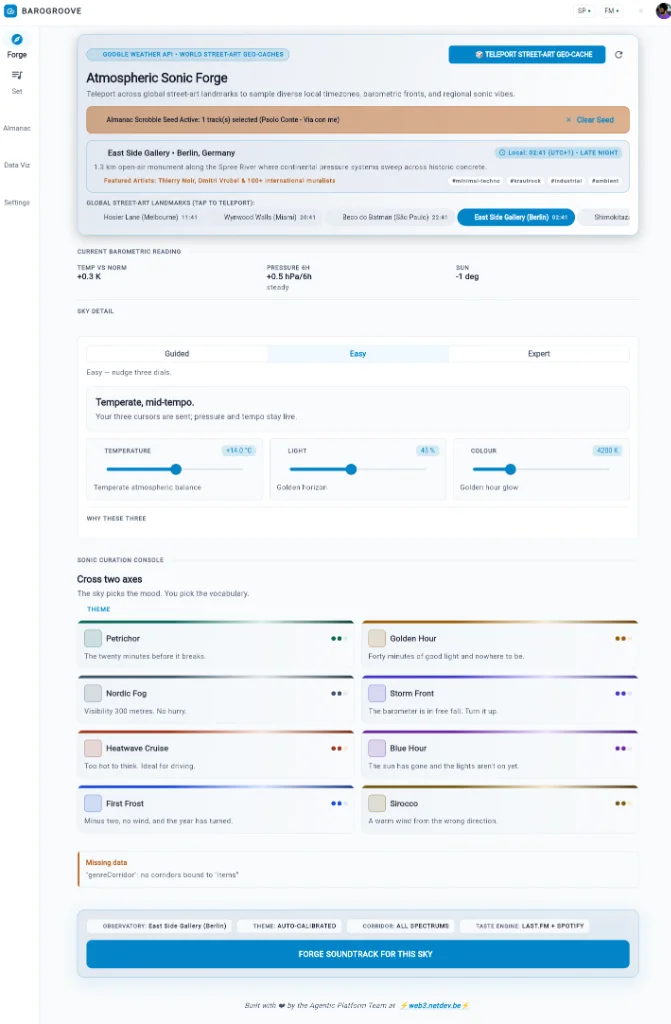
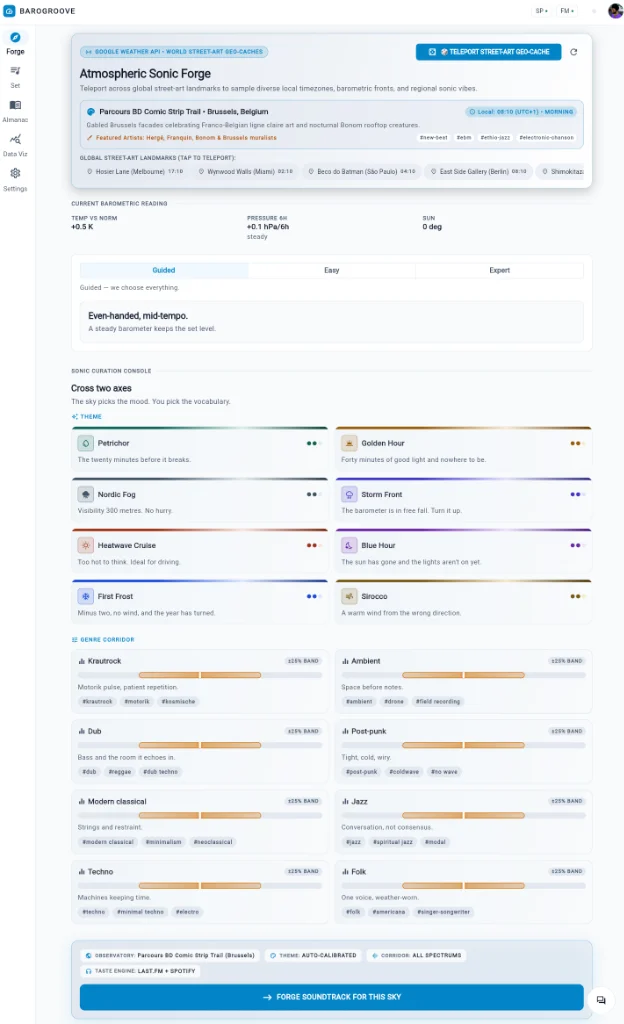
chore(blog): update Barogroove title and replace screenshots with updated UI captures

diff --git a/_posts/2026-09-14-barogroove-barometer-daylist-ai-lastfm.md b/_posts/2026-09-14-barogroove-barometer-daylist-ai-lastfm.md
@@ -1,6 +1,6 @@
 ---
 layout: post
-title: "Barogroove: When Barometric Pressure Meets 160,000 Last.fm Scrobbles"
+title: "Barogroove: When Barometric Pressure Meets years of Scrobbles"
 subtitle: "Weekend tinkering between espresso pots and rainy Brussels skies: building an atmospheric AI Daylist forge with Vertex AI Gemini 2.5 Flash, BigQuery, and street-art geo-caches."
 date: 2026-09-14
 cover-img: /assets/img/posts/2026-09-14-barogroove-hero.webp
@@ -14,7 +14,7 @@ Some weekends simply hit every single note.
 
 On Saturday, I stood pitchside at **Royal White Star HC** cheering on my son's field hockey team as they battled through the wet turf to a **4-2 victory**. On Sunday, it was my turn to lace up the shoes away at **Mechelen HC**—where my own team ground out a tight **1-2 win**. Two matches, two victories, sore calves, muddy shinguards, and that unbeatable post-game clubhouse buzz.
 
-And in the quiet windows between Saturday's final whistle, Sunday's warm-up, and a bottomless moka pot of dark roast coffee? I finally sat down and shipped a fun weekend tinkering experiment: **Barogroove** (<a href="https://bg.netdev.be" target="_blank" rel="noopener">bg.netdev.be</a>) — a barometer-induced AI Daylist maker seeded by twenty years of Last.fm scrobbles. The Python source code is up on GitHub at <a href="https://github.com/jpaquay/myshippedpy" target="_blank" rel="noopener" style="display: inline-flex; align-items: center; gap: 5px; font-weight: 600;"><svg width="15" height="15" viewBox="0 0 16 16" fill="currentColor" style="vertical-align: text-bottom;"><path fill-rule="evenodd" d="M8 0C3.58 0 0 3.58 0 8c0 3.54 2.29 6.53 5.47 7.59.4.07.55-.17.55-.38 0-.19-.01-.82-.01-1.49-2.01.37-2.53-.49-2.69-.94-.09-.23-.48-.94-.82-1.13-.28-.15-.68-.52-.01-.53.63-.01 1.08.58 1.23.82.72 1.21 1.87.87 2.33.66.07-.52.28-.87.51-1.07-1.78-.2-3.64-.89-3.64-3.95 0-.87.31-1.59.82-2.15-.08-.2-.36-1.02.08-2.12 0 0 .67-.21 2.2.82.64-.18 1.32-.27 2-.27.68 0 1.36.09 2 .27 1.53-1.04 2.2-.82 2.2-.82.44 1.1.16 1.92.08 2.12.51.56.82 1.27.82 2.15 0 3.07-1.87 3.75-3.65 3.95.29.25.54.73.54 1.48 0 1.07-.01 1.93-.01 2.2 0 .21.15.46.55.38A8.013 8.013 0 0016 8c0-4.42-3.58-8-8-8z"/></svg>jpaquay/myshippedpy</a>.
+And in the quiet windows between Saturday's final whistle, Sunday's warm-up, and a bottomless moka pot of dark roast coffee? I finally sat down and shipped a fun weekend tinkering experiment: **Barogroove** (<a href="https://bg.netdev.be" target="_blank" rel="noopener">bg.netdev.be</a>) — a barometer-induced AI Daylist maker seeded by years of Last.fm scrobbles. The Python source code is up on GitHub at <a href="https://github.com/jpaquay/myshippedpy" target="_blank" rel="noopener" style="display: inline-flex; align-items: center; gap: 5px; font-weight: 600;"><svg width="15" height="15" viewBox="0 0 16 16" fill="currentColor" style="vertical-align: text-bottom;"><path fill-rule="evenodd" d="M8 0C3.58 0 0 3.58 0 8c0 3.54 2.29 6.53 5.47 7.59.4.07.55-.17.55-.38 0-.19-.01-.82-.01-1.49-2.01.37-2.53-.49-2.69-.94-.09-.23-.48-.94-.82-1.13-.28-.15-.68-.52-.01-.53.63-.01 1.08.58 1.23.82.72 1.21 1.87.87 2.33.66.07-.52.28-.87.51-1.07-1.78-.2-3.64-.89-3.64-3.95 0-.87.31-1.59.82-2.15-.08-.2-.36-1.02.08-2.12 0 0 .67-.21 2.2.82.64-.18 1.32-.27 2-.27.68 0 1.36.09 2 .27 1.53-1.04 2.2-.82 2.2-.82.44 1.1.16 1.92.08 2.12.51.56.82 1.27.82 2.15 0 3.07-1.87 3.75-3.65 3.95.29.25.54.73.54 1.48 0 1.07-.01 1.93-.01 2.2 0 .21.15.46.55.38A8.013 8.013 0 0016 8c0-4.42-3.58-8-8-8z"/></svg>jpaquay/myshippedpy</a>.
 
 ---
 
@@ -22,64 +22,62 @@ And in the quiet windows between Saturday's final whistle, Sunday's warm-up, and
 
 If you live in Belgium, you learn early on that human mood is governed by two things: the quality of the coffee in your hand and the **barometric pressure (`hPa`)** outside your window.
 
-Streaming platforms have tried to crack dynamic playlists for years. Spotify's *Daylist* is clever, but its time-of-day heuristics (*"tuesday afternoon goblin core indie"*) miss the meteorological reality of the sky. A crisp, high-pressure `1028 hPa` winter morning calls for a completely different acoustic geometry than a humid `-5.4 hPa/6h` falling barometer right before a late-summer thunderstorm breaks over Brussels.
+Streaming platforms have tried to crack dynamic playlists for years. Spotify's *Daylist* is clever, but its time-of-day heuristics (*"tuesday afternoon goblin core indie"*) miss the meteorological reality of the sky. A crisp, high-pressure `1028 hPa` winter morning calls for a completely different acoustic geometry than a falling barometer right before a late-summer storm front rolls across Brussels.
 
-More importantly, generic AI music tools suffer from **amnesia**: they hallucinate recommendations from a generic global average instead of respecting your actual lifelong musical DNA. I didn't want a chatbot guessing what "rainy music" sounds like; I wanted an engine seeded directly by **my own 160,717 Last.fm scrobbles** logged since the mid-2000s.
+More importantly, generic AI music tools suffer from **amnesia**: they hallucinate recommendations from a generic global average instead of respecting your actual lifelong musical DNA. I didn't want a chatbot guessing what "rainy music" sounds like; I wanted an engine seeded directly by **my own 160,717 Last.fm scrobbles** logged between 2012 and 2026.
 
 ---
 
-## 2. The Atmospheric Sonic Forge: Street-Art Geo-Caches & Paolo Conte Seeds
+## 2. The Atmospheric Sonic Forge: Street-Art Geo-Caches & Genre Corridors
 
-![Barogroove Atmospheric Sonic Forge UI showing street-art geo-caches, barometric readings, and Paolo Conte scrobble seed](/assets/img/posts/2026-09-14-barogroove-01-sonic-forge.webp)
+![Barogroove Atmospheric Sonic Forge UI showing Parcours BD Brussels, weather themes, and Genre Corridor sliders](/assets/img/posts/2026-09-14-barogroove-01-sonic-forge.webp)
 
 When you open the app, you don't pick a generic genre. You step into the **Atmospheric Sonic Forge**:
 
 1. **World Street-Art Geo-Caches (Tap to Teleport)**: Instead of sterile city codes, Barogroove anchors its live weather telemetry (`Google Weather API`) to iconic global street-art corridors. With one click, you can teleport your barometer between:
-   - 🎨 **Parcours BD Comic Strip Trail (Brussels)** — *Home turf*
-   - 🧱 **East Side Gallery (Berlin)** — *1.3 km open-air monument along the Spree (`#minimal-techno #krautrock #industrial #ambient`)*
+   - 🎨 **Parcours BD Comic Strip Trail (Brussels)** — *Home turf: Gabled Brussels facades celebrating Franco-Belgian ligne claire art (`Hergé, Franquin, Bonom & Brussels muralists` | `#new-beat #ebm #ethio-jazz #electronic-chanson`)*
+   - 🧱 **East Side Gallery (Berlin)** — *1.3 km open-air monument along the Spree*
    - 巷 **Hosier Lane (Melbourne)**
    - 🌴 **Wynwood Walls (Miami)**
    - 🇧🇷 **Beco do Batman (São Paulo)**
    - 🏮 **Shimokitazawa (Tokyo)**
-2. **Almanac Scrobble Seeds**: You can lock in a specific track from your Last.fm history as the harmonic anchor—like seeding a late-night Berlin session with **Paolo Conte's *Via con me***.
-3. **Three-Dial Micro-Calibration**: In *Easy* mode, you nudge three physical cursors—**Temperature (`+14.0 °C`)**, **Light (`45%` Golden Horizon)**, and **Colour (`4200 K` Golden Hour Glow)**—while live barometric delta (`+0.5 hPa/6h`) and solar elevation (`-1 deg`) steer the tempo.
-4. **Cross Two Axes**: *"The sky picks the mood. You pick the vocabulary."* Choose between eight atmospheric themes: **Petrichor**, **Golden Hour**, **Nordic Fog**, **Storm Front**, **Heatwave Cruise**, **Blue Hour**, **First Frost**, or **Sirocco**.
+2. **Cross Two Axes (Theme × Genre Corridor)**: *"The sky picks the mood. You pick the vocabulary."*
+   - **Weather Themes**: Choose between **Petrichor**, **Golden Hour**, **Nordic Fog**, **Storm Front**, **Heatwave Cruise**, **Blue Hour**, **First Frost**, or **Sirocco**.
+   - **Genre Corridors (`±25% Band`)**: Fine-tune the sonic spectrum across eight curated corridors—**Krautrock** (*Motorik pulse, patient repetition*), **Ambient** (*Space before notes*), **Dub** (*Bass and the room it echoes in*), **Post-punk** (*Tight, cold, wiry*), **Modern classical** (*Strings and restraint*), **Jazz** (*Conversation, not consensus*), **Techno** (*Machines keeping time*), and **Folk** (*One voice, weather-worn*).
 
 ---
 
-## 3. Spinning the Set: Dream Pop for a Falling Barometer (& Surviving HTTP 429s)
+## 3. Spinning the Set: Slowcore & Lo-Fi for a Storm Front (& Surviving HTTP 429s)
 
 ![Barogroove Barometric Daylist generated for Parcours BD Brussels showing 18 tracks and graceful M3U fallback](/assets/img/posts/2026-09-14-barogroove-02-daylist-set.webp)
 
-Here is what happens when you point Barogroove at the **Parcours BD Comic Strip Trail in Brussels** during a **Golden Hour** drop (`-5.4 hPa/6h`):
+Here is what happens when you point Barogroove at the **Parcours BD Comic Strip Trail in Brussels** under a **Storm Front (`-0.7 hPa/6h`)**:
 
 The engine synthesizes an 18-track set titled:
-> **`golden hour afternoon daylist — dream pop & ethereal for a falling barometer (105 BPM)`**  
-> *Forty minutes of good light and nowhere to be.* (`#dream pop #ethereal #reverb #soundtrack #dreamy #melancholy`)
+> **`slowcore & lo fi afternoon — storm front daylist at 125 BPM under a steady barometer`**  
+> *The barometer is in free fall. Turn it up.* (`#slowcore #lo fi #space rock #sparse #tape #melancholy`)
 
 Look at that opening 5-track sequence on the **In-App Soundtrack Deck**:
-1. **Julee Cruise** — *Falling* (*Floating into the Night*)
+1. **Duster** — *Constellations* (*Stratosphere*)
 2. **Talk Talk** — *New Grass*
-3. **Elis Regina & Antônio Carlos Jobim** — *Águas de Março*
-4. **Terakaft** — *Amazzagh*
-5. **Tony Allen** — *Asiko*
+3. **Sunn O)))** — *Big Church*
+4. **Tinariwen** — *Sastanaqqam*
+5. **Slowdive** — *Souvlaki Space Station*
 
-From Twin Peaks dream-pop to late-era Talk Talk post-rock, Brazilian bossa nova masterworks, Tuareg desert blues, and Afrobeat polyrhythms—all locked to a 105 BPM falling-barometer pulse.
+From Duster's lo-fi slowcore to Talk Talk's post-rock, Sunn O))) drone metal cathedral chords, Tinariwen desert blues, and Slowdive shoegaze—all locked to a 125 BPM storm-front pulse.
 
-**Weekend Engineering Lesson — Graceful Degradation on HTTP 429:** As you can see in the screenshot above, Spotify's Web API decided to throw a classic `HTTP 429 (Too Many Requests)` rate-limit during my Sunday afternoon testing spree. Instead of crashing or failing silently, Barogroove automatically writes an **annotated M3U playlist file (18 tracks, 1h40m23s)** with the AI's track-by-track reasoning embedded right inside the `#EXTINF` comments, while rendering instant one-click deep links to play every track directly on **Spotify** or **YouTube Music**.
+**Weekend Engineering Lesson — Graceful Degradation & Transparency:** Notice two details in the screenshot above. First, when Spotify's Web API throws a classic `HTTP 429 (Too Many Requests)` rate-limit, Barogroove automatically writes an **annotated M3U playlist file (18 tracks, 1h40m45s)** with track-by-track AI reasoning embedded inside the file comments, alongside instant one-click links to play on **Spotify** or **YouTube Music**. Second, if a requested theme parameter degrades or falls back to live sky telemetry (`Theme degraded: unknown theme 'clear_high'; sky picked instead`), the UI surfaces it transparently.
 {: .box-note}
 
 ---
 
 ## 4. 160,717 Scrobbles in BigQuery: What My Musical Almanac Says About Me
 
-![Barogroove Data Viz tab powered by Gemini 2.5 Flash and BigQuery analyzing 160,717 Last.fm scrobbles](/assets/img/posts/2026-09-14-barogroove-03-dataviz-almanac.webp)
+![Barogroove Data Viz tab querying 160,717 Last.fm scrobbles across weather themes](/assets/img/posts/2026-09-14-barogroove-03-dataviz-almanac.webp)
 
-Because I couldn't resist connecting my listening history to **BigQuery** and **Vertex AI (`gemini-2.5-flash`)**, I built a conversational **Data Viz** tab where you can query your entire musical almanac in plain English.
+Because I couldn't resist connecting my listening history to **BigQuery** and **Vertex AI (`gemini-2.5-flash`)**, I built a conversational **Data Viz** tab where you can query your entire musical almanac in plain English—and inspect the exact SQL query the agent ran.
 
-When I asked: *"Show me the distribution of scrobbles across different weather themes"*, Gemini crunched all **160,717 scrobbles** in my catalog (weighted average tempo: **104.6 BPM**, with daily listening peaking at **19:00 UTC / 21:00 CET** at 11,072 plays).
-
-The resulting **Atmospheric Weather Affinity Breakdown** exposed my true French/Belgian musical soul:
+Across **160,717 synced plays (2012–2026)** with a play-weighted average tempo of **104.6 BPM**, my **Atmospheric Weather Affinity Breakdown** reveals my true French/Belgian musical soul:
 
 | Weather Regime | Share (Scrobbles) | Avg Tempo | Dominant Artist in My Almanac |
 | :--- | :--- | :--- | :--- |
@@ -95,15 +93,18 @@ The verdict is statistically indisputable: when the barometer is calm or hazy, I
 
 ---
 
-## 5. Under the Hood: W3C Trace Telemetry & Semantic Almanac Memory
+## 5. Conversational Sonic Assistant & 24-Hour Chronology
 
-![Barogroove AI Telemetry, Trajectory & Memory Inspector modal showing W3C traces and A2UI deterministic fallbacks](/assets/img/posts/2026-09-14-barogroove-04-ai-telemetry-inspector.webp)
+![Barogroove Data Viz full view showing 24-hour chronology and floating conversational AI assistant](/assets/img/posts/2026-09-14-barogroove-04-ai-telemetry-inspector.webp)
 
-You can take the engineer out of the weekday, but you can't take the SRE out of the weekend project.
+Scrolling down the Data Viz dashboard reveals my **24-Hour Chronology**—where listening activity climbs steadily through the afternoon before peaking at **19:00 UTC (11,072 plays, 87% activity)**.
 
-Clicking the top-left status badge opens Barogroove's built-in **AI Telemetry, Trajectory & Memory Inspector** (`W3C TRACE • DUAL-SINK`):
-- **Dual-Path Execution**: Full **Vertex AI Gemini 2.5 Flash** reasoning calls (like `POST /api/advisor/live` — *"Take me somewhere it is raining"*, orchestrating `teleport_geocache`, `select_sonic_parameters`, and `seed_from_almanac`) run alongside ultra-fast **A2UI deterministic fallbacks** that resolve UI state transitions in **1.5 ms** (`35 tokens`).
-- **Semantic Almanac DNA**: Persistent vector memories store personal listening nuances across sessions so the forge remembers that your idea of "Nordic Fog" leans acoustic rather than synth-wave.
+And tucked into the bottom-right corner is the **Conversational AI Assistant** (with voice and text input), ready to bridge weather telemetry and your catalog on the fly:
+- *"Take me somewhere it is raining"*
+- *"What does the sky sound like here?"*
+- *"Forge me something for this weather"*
+
+Crucially, as the assistant notes: *"Anything that changes your library is shown to you first."*
 
 Not bad for forty-eight hours fueled by espresso and two field hockey wins. Feel free to teleport your own barometer to a favorite street-art wall or check out the Python code on GitHub!
 
@@ -212,25 +213,25 @@ Browse the artwork and full-resolution UI screenshots from the weekend build bel
   <div class="bg-carousel-slide">
     <img src="/assets/img/posts/2026-09-14-barogroove-01-sonic-forge.webp" alt="Barogroove Atmospheric Sonic Forge UI" loading="lazy" />
     <div class="bg-carousel-caption">
-      <strong>2 / 5 — Atmospheric Sonic Forge</strong>: Teleporting across global street-art geo-caches (East Side Gallery Berlin, Parcours BD Brussels) with Paolo Conte scrobble seeds and 3-axis weather dials.
+      <strong>2 / 5 — Atmospheric Sonic Forge</strong>: Teleporting across global street-art geo-caches (Parcours BD Brussels, East Side Gallery Berlin) with 8 Weather Themes and 8 Genre Corridor sliders.
     </div>
   </div>
   <div class="bg-carousel-slide">
     <img src="/assets/img/posts/2026-09-14-barogroove-02-daylist-set.webp" alt="Barogroove Barometric Daylist Set for Parcours BD Brussels" loading="lazy" />
     <div class="bg-carousel-caption">
-      <strong>3 / 5 — Barometric Daylist Set (105 BPM)</strong>: Golden Hour afternoon set for Parcours BD Brussels (-5.4 hPa/6h) featuring Julee Cruise, Talk Talk, Elis Regina, and automatic annotated M3U export.
+      <strong>3 / 5 — Storm Front Daylist Set (125 BPM)</strong>: Slowcore & lo-fi afternoon set for Parcours BD Brussels featuring Duster, Talk Talk, Sunn O))), Tinariwen, and Slowdive + annotated M3U export.
     </div>
   </div>
   <div class="bg-carousel-slide">
     <img src="/assets/img/posts/2026-09-14-barogroove-03-dataviz-almanac.webp" alt="Barogroove Data Viz and BigQuery Almanac Analysis" loading="lazy" />
     <div class="bg-carousel-caption">
-      <strong>4 / 5 — 160,717 Scrobbles in BigQuery</strong>: Gemini 2.5 Flash analyzing two decades of Last.fm history across 7 weather regimes (Georges Brassens, Tryo, and Chinese Man leading the pack).
+      <strong>4 / 5 — 160,717 Scrobbles in BigQuery</strong>: Plain-language BigQuery agent analyzing 14 years of Last.fm history across weather regimes (Georges Brassens, Tryo, and Chinese Man leading the pack).
     </div>
   </div>
   <div class="bg-carousel-slide">
-    <img src="/assets/img/posts/2026-09-14-barogroove-04-ai-telemetry-inspector.webp" alt="Barogroove AI Telemetry, Trajectory and Memory Inspector" loading="lazy" />
+    <img src="/assets/img/posts/2026-09-14-barogroove-04-ai-telemetry-inspector.webp" alt="Barogroove 24-Hour Chronology and Conversational AI Assistant" loading="lazy" />
     <div class="bg-carousel-caption">
-      <strong>5 / 5 — W3C Trace & AI Telemetry Inspector</strong>: Real-time monitoring across Vertex AI Gemini 2.5 Flash calls, 1.5ms deterministic A2UI fallbacks, and Semantic Almanac DNA memories.
+      <strong>5 / 5 — 24-Hour Chronology & Voice/Chat Assistant</strong>: Daily scrobble activity peaking at 19:00 UTC alongside the interactive AI assistant drawer.
     </div>
   </div>
 
